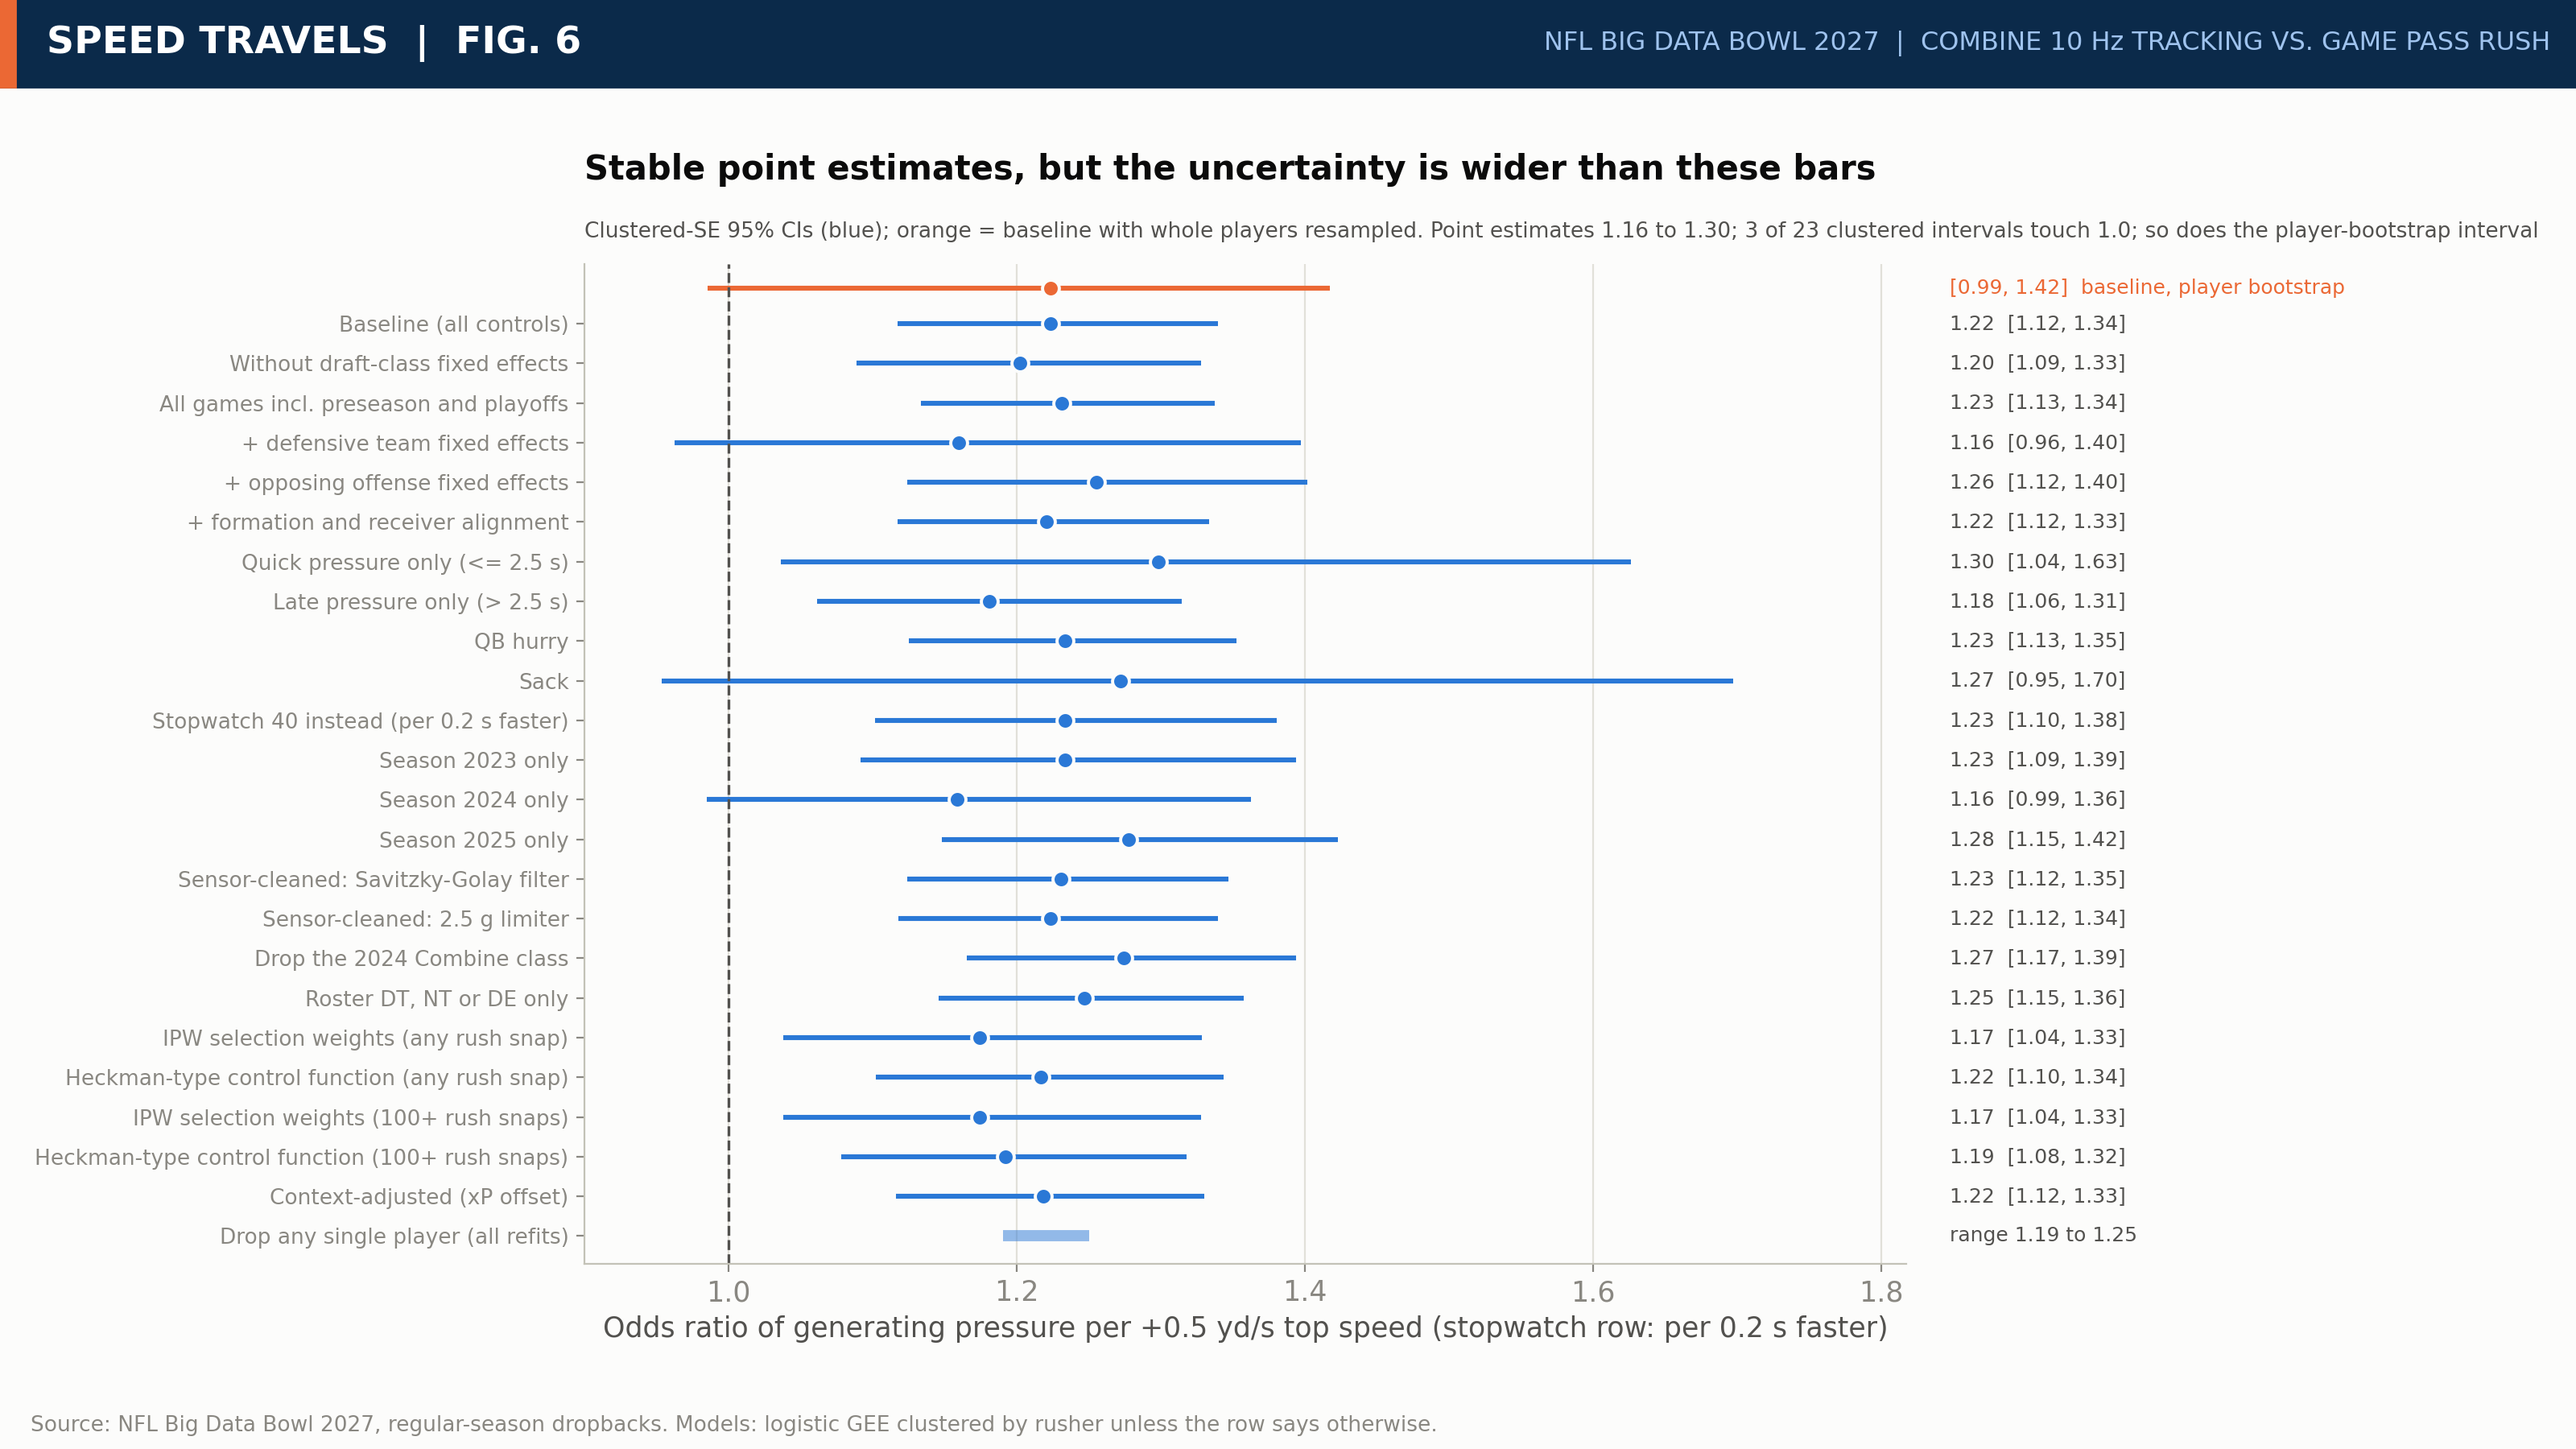
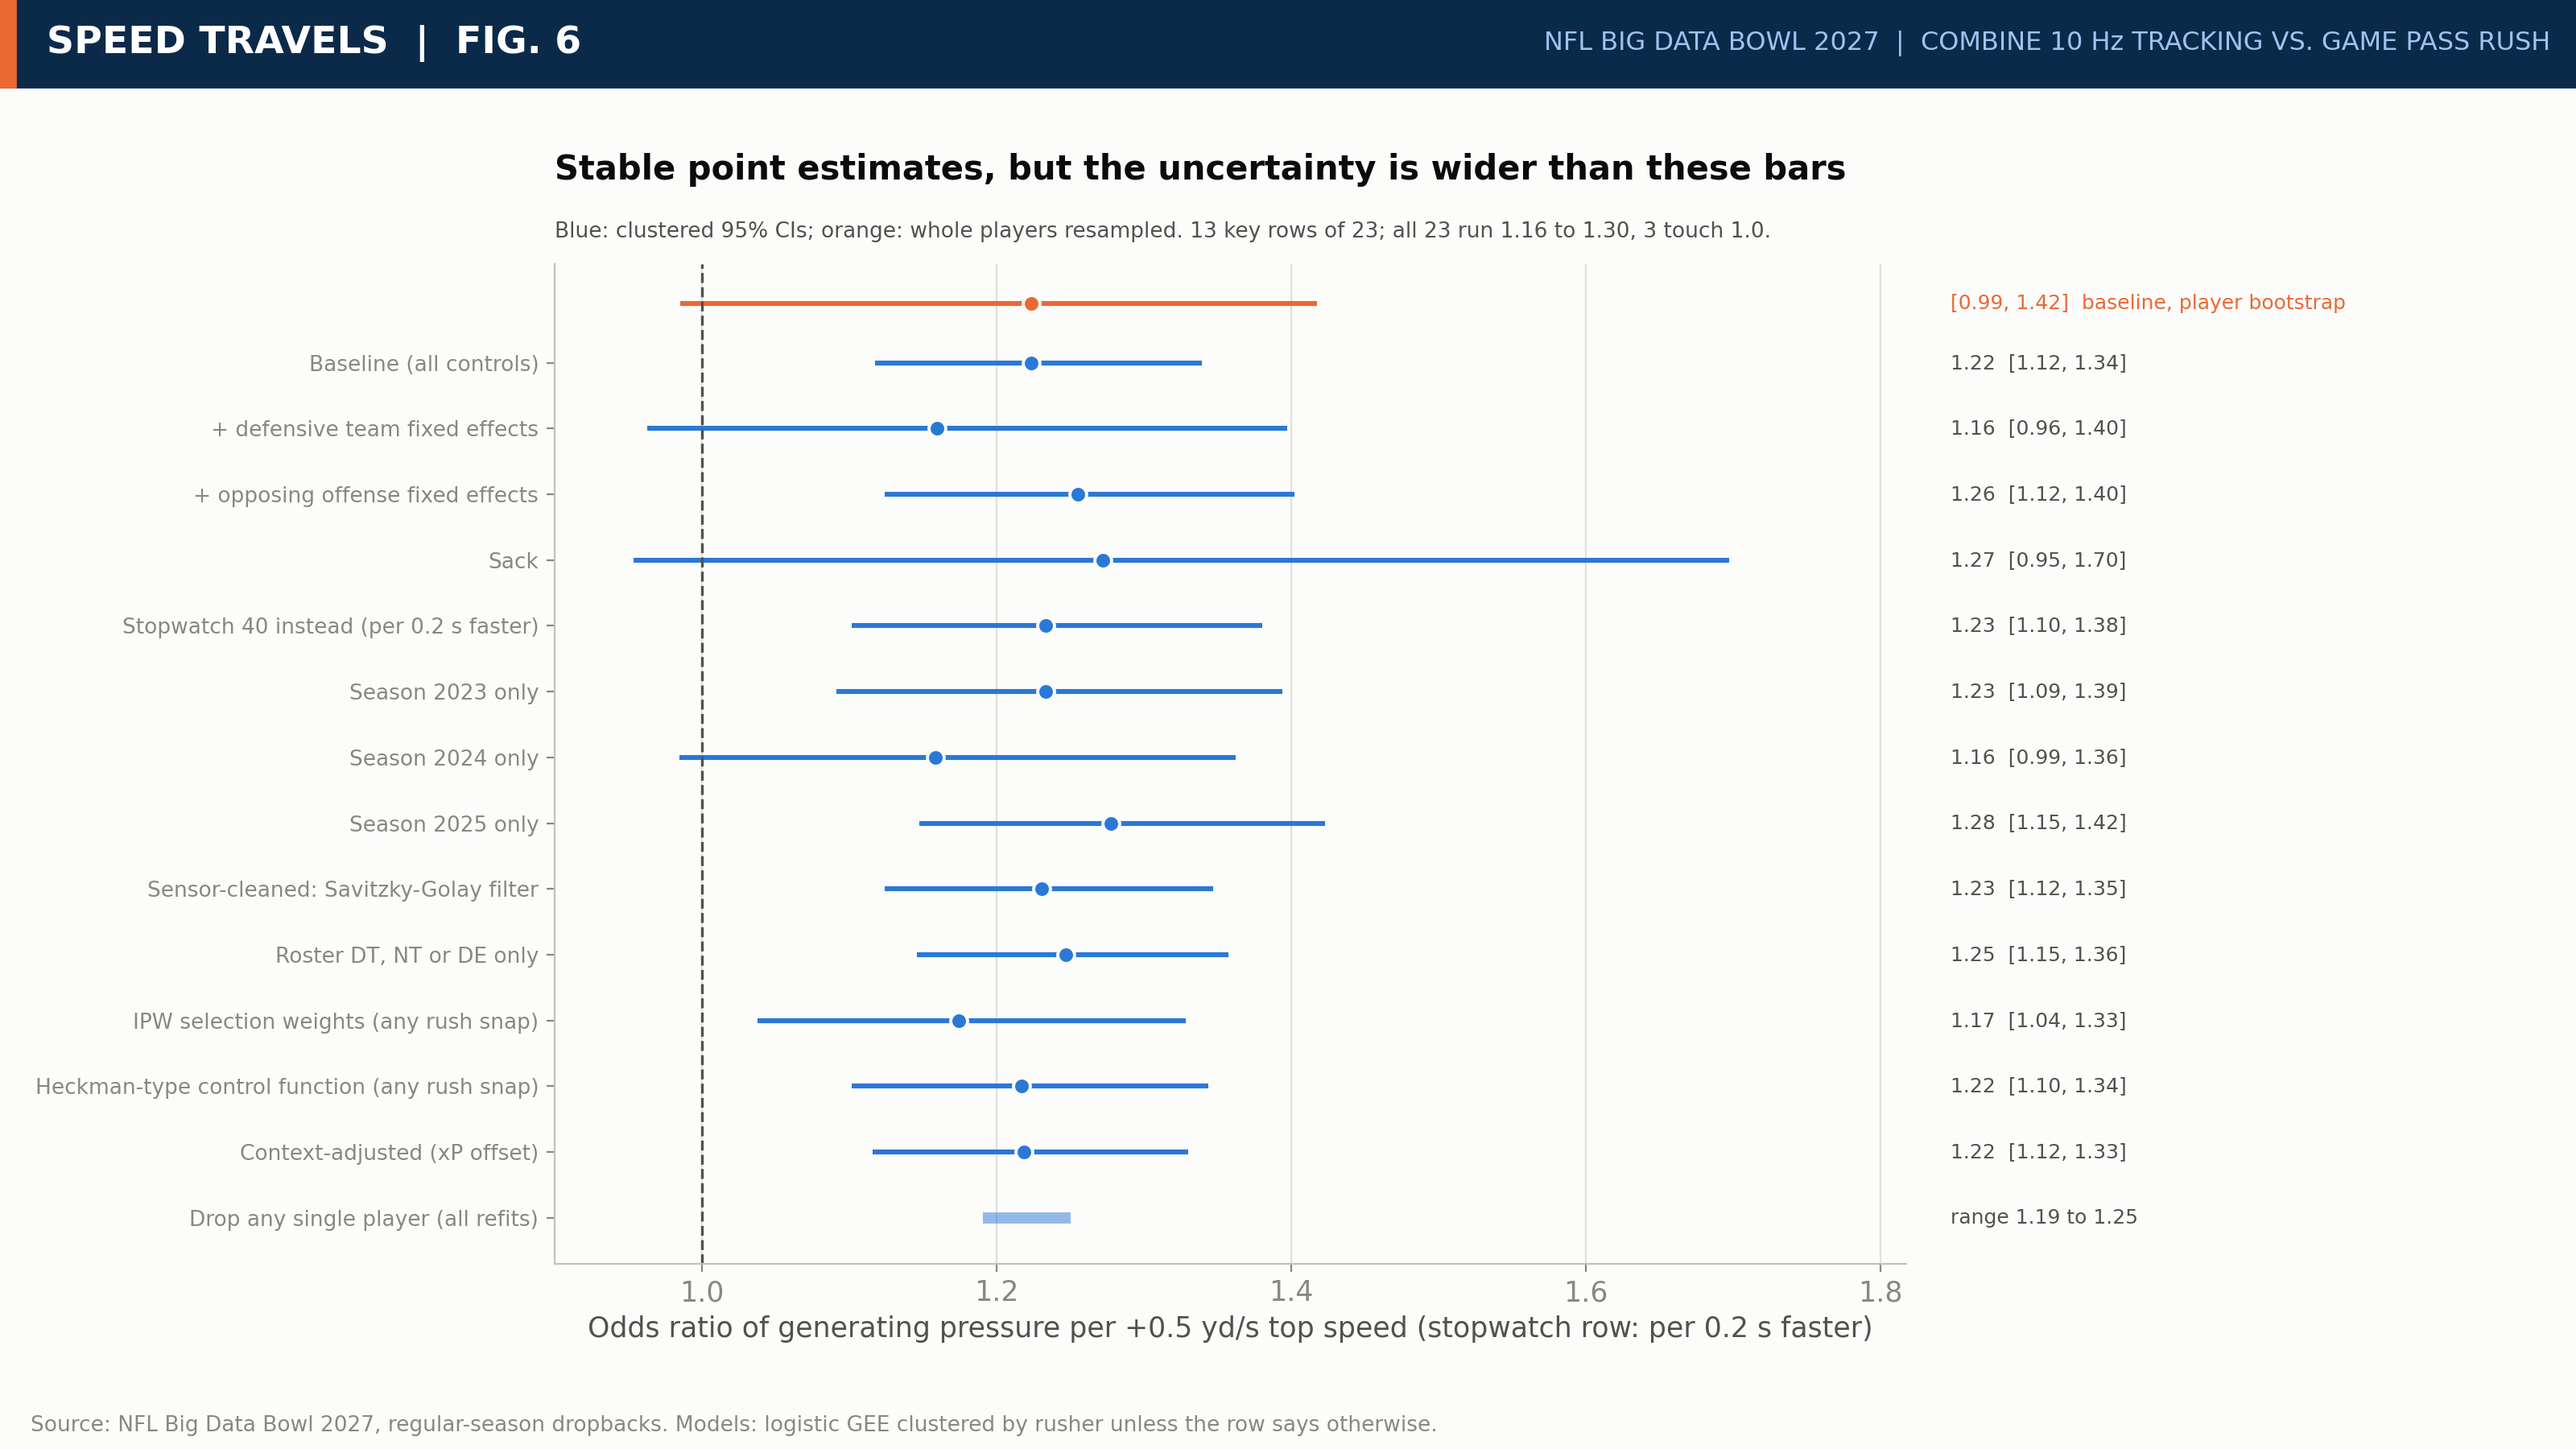
v30: Fig 6 cut to 13 key rows; Table 2 edge rows merged
Claude-Session: https://claude.ai/code/session_01NYNpUw5TLCT8fUrXZ4q2c3

diff --git a/notebook/speed_travels.py b/notebook/speed_travels.py
@@ -985,14 +985,16 @@ fig.text(0.012, 0.03, "Adjusted for weight, arm length, draft slot, draft class,
 # **Figure 6.** Stress tests.
 
 # %%
-rb = res["robust"]; rows_ = list(rb.items()); nloo = res["loo_OR_range"]; fig, ax = plt.subplots(figsize=(14, 8)); y = np.arange(len(rows_) + 1)[::-1]; XR = max(1.8, max(v["hi"] for v in rb.values()) + 0.12)
+KEY6 = ["Baseline (all controls)", "+ defensive team fixed effects", "+ opposing offense fixed effects", "Sack", "Stopwatch 40 instead (per 0.2 s faster)", "Season 2023 only", "Season 2024 only", "Season 2025 only",
+        "Sensor-cleaned: Savitzky-Golay filter", "Roster DT, NT or DE only", "IPW selection weights (any rush snap)", "Heckman-type control function (any rush snap)", "Context-adjusted (xP offset)"]
+rb_all = res["robust"]; rb = {k: rb_all[k] for k in KEY6 if k in rb_all}; rows_ = list(rb.items()); nloo = res["loo_OR_range"]; fig, ax = plt.subplots(figsize=(14, 6.5)); y = np.arange(len(rows_) + 1)[::-1]; XR = max(1.8, max(v["hi"] for v in rb.values()) + 0.12)
 for yy, (k, v) in zip(y[:-1], rows_):
     ax.hlines(yy, v["lo"], v["hi"], color=BLUE, lw=2.2); ax.plot(v["OR"], yy, "o", color=BLUE, ms=7.5, mec=SURF, mew=1.4); ax.text(XR + 0.03, yy, f"{v['OR']:.2f}  [{v['lo']:.2f}, {v['hi']:.2f}]", va="center", fontsize=9, color=INK2)
 ax.hlines(y[-1], nloo[0], nloo[1], color=BLUE, lw=5, alpha=0.5); ax.text(XR + 0.03, y[-1], f"range {nloo[0]:.2f} to {nloo[1]:.2f}", va="center", fontsize=9, color=INK2)
 pbx = res.get("pooled_boot")
 if pbx: ax.set_ylim(-0.7, y[0] + 1.5); ax.hlines(y[0] + 0.9, pbx["OR_lo"], pbx["OR_hi"], color=ORANGE, lw=2.2); ax.plot(rb[rows_[0][0]]["OR"], y[0] + 0.9, "o", color=ORANGE, ms=7.5, mec=SURF, mew=1.4); ax.text(XR + 0.03, y[0] + 0.9, f"[{pbx['OR_lo']:.2f}, {pbx['OR_hi']:.2f}]  baseline, player bootstrap", va="center", fontsize=9, color=ORANGE)
 ax.set_yticks(y); ax.set_yticklabels([k for k, _ in rows_] + ["Drop any single player (all refits)"], fontsize=9.5); ax.axvline(1, color=INK2, lw=1.2, ls="--"); ax.set_xlim(0.9, XR); ax.set_xlabel("Odds ratio of generating pressure per +0.5 yd/s top speed (stopwatch row: per 0.2 s faster)"); ax.grid(axis="y", visible=False)
-headline(ax, "Stable point estimates, but the uncertainty is wider than these bars", f"Clustered-SE 95% CIs (blue); orange = baseline with whole players resampled. Point estimates {min(v['OR'] for v in rb.values()):.2f} to {max(v['OR'] for v in rb.values()):.2f}; {sum(v['lo'] <= 1 for v in rb.values())} of {len(rb)} clustered intervals touch 1.0" + ("; so does the player-bootstrap interval" if (res.get("pooled_boot") or {}).get("OR_lo", 2) <= 1 else "")); fig.tight_layout(); save(fig, "fig6_robust.png", right=0.74)
+headline(ax, "Stable point estimates, but the uncertainty is wider than these bars", f"Blue: clustered 95% CIs; orange: whole players resampled. {len(rb)} key rows of {len(rb_all)}; all {len(rb_all)} run {min(v['OR'] for v in rb_all.values()):.2f} to {max(v['OR'] for v in rb_all.values()):.2f}, {sum(v['lo'] <= 1 for v in rb_all.values())} touch 1.0.") ; fig.tight_layout(); save(fig, "fig6_robust.png", right=0.74)
 
 # %% [markdown]
 # **Figure 7.** The interior pressure effect class by class.

diff --git a/writeup/writeup.md b/writeup/writeup.md
@@ -66,7 +66,7 @@ Each +0.5 yd/s raises the odds of pressure by 22% (odds ratio, OR, 1.22; cluster
 Correcting for who reached the field, for game context and for sensor noise leaves the estimate between 1.17 and 1.23 (Appendix A1 to A3).
 
 ![Fig. 6: Robustness checks with clustered and player-bootstrap intervals](https://raw.githubusercontent.com/tdogukan470-jpg/nfl-bdb-2027/main/figures/fig6_robust.png)
-*Figure 6. The interior pressure effect under the baseline plus 22 alternative specifications: fixed effects, outcome definitions, seasons, sensor cleaning, selection correction and the context model, with clustered-SE intervals; the orange bar resamples whole players. 1.0 is no effect.*
+*Figure 6. The interior pressure effect under the baseline and key alternatives (all 22 in the notebook): fixed effects, outcome definitions, seasons, sensor cleaning, selection correction and the context model, with clustered-SE intervals; the orange bar resamples whole players. 1.0 is no effect.*
 
 **Top speed, not burst.** Top speed carries the effect (OR 1.21) and burst carries none (OR 1.03, p = 0.54); the stopwatch 10-yard split adds nothing once the 40 is in (p = 0.35).
 
@@ -88,9 +88,7 @@ A scout needs the finding to hold for the next draft, so we hide one whole draft
 | Interior, split > 2.20 s (23 players) | POE -0.9 [-1.9, +0.1] | Lower pass-rush priority; let tape decide |
 | Interior up to 294 lb (the lightest band includes linebackers and DBs aligned inside) | Fast-minus-slow POE +2.3 [-4.3, +11.9] (<= 263 lb) and +3.1 [+0.6, +5.3] (264 to 294 lb) | Weigh the split here; the 264 to 294 lb gap excludes 0 |
 | Interior 297+ lb (nose types) | Fast-minus-slow +0.5 [-2.4, +2.4] | No gap; use other traits |
-| Fast edge, efficient drill path (16 players) | POE +1.5 [-1.8, +3.3] | No clear gain from speed; judge on tape |
-| Fast edge, inefficient drill path (18 players) | POE -0.8 [-3.8, +0.5]; wide -1.2, tight -1.7 (exploratory) | Wide and tight alignment differ little |
-| Slow edge, efficient / inefficient path (18 / 15 players) | POE -2.2 [-4.4, -0.4] and -3.0 [-6.2, +0.2] | Below the fast cells; edge speed may help a little (OR CI includes 1) |
+| Edge, any speed x drill-path profile (16/18/18/15 players) | Fast: POE +1.5 [-1.8, +3.3] and -0.8 [-3.8, +0.5]; slow: -2.2 [-4.4, -0.4] and -3.0 [-6.2, +0.2] | Leans toward fast, but cells are small; judge on tape |
 | OL, WR/TE | No detectable speed effect | Do not pay for speed alone |
 
 Edge cells use the drill's path efficiency, which does not predict pressure on its own (main effect p = 0.44; speed x path interaction p = 0.54), so judge path directness on tape. Weight bands proxy 3-tech versus nose. The split cut-off was chosen from 7 scanned values (2.01 to 2.27 s); only 2.12 s gives a fast-minus-slow gap whose interval excludes 0, so the interior rows are exploratory.

diff --git a/writeup/writeup_template.md b/writeup/writeup_template.md
@@ -66,7 +66,7 @@ Each +0.5 yd/s raises the odds of pressure by {ORPCT:table1.int_pressure}% (odds
 Correcting for who reached the field, for game context and for sensor noise leaves the estimate between {CORR_RANGE} (Appendix A1 to A3).
 
 ![Fig. 6: Robustness checks with clustered and player-bootstrap intervals]({IMG}fig6_robust.png)
-*Figure 6. The interior pressure effect under the baseline plus {N_RB} alternative specifications: fixed effects, outcome definitions, seasons, sensor cleaning, selection correction and the context model, with clustered-SE intervals; the orange bar resamples whole players. 1.0 is no effect.*
+*Figure 6. The interior pressure effect under the baseline and key alternatives (all {N_RB} in the notebook): fixed effects, outcome definitions, seasons, sensor cleaning, selection correction and the context model, with clustered-SE intervals; the orange bar resamples whole players. 1.0 is no effect.*
 
 **Top speed, not burst.** Top speed carries the effect (OR {OR:decomp.top}) and burst carries none (OR {OR:decomp.burst}, p = {P2:decomp.burst.p}); the stopwatch 10-yard split adds nothing once the 40 is in (p = {P2:decomp_stopwatch.ten.p}).
 
@@ -88,9 +88,7 @@ A scout needs the finding to hold for the next draft, so we hide one whole draft
 | Interior, split > {CUT_R} s ({N_R} players) | POE {POE_R} | Lower pass-rush priority; let tape decide |
 | Interior up to {W2} lb (the lightest band includes linebackers and DBs aligned inside) | Fast-minus-slow POE {GAP_LIGHT_CI} (<= {W1} lb) and {GAP_MID_CI} ({W1P} to {W2} lb) | {LIGHT_ACTION} |
 | Interior {W2P}+ lb (nose types) | Fast-minus-slow {GAP_HEAVY} | No gap; use other traits |
-| Fast edge, efficient drill path ({N_FE} players) | POE {POE_FE} | No clear gain from speed; judge on tape |
-| Fast edge, inefficient drill path ({N_FI} players) | POE {POE_FI}; wide {POE_FI_W}, tight {POE_FI_T} (exploratory) | Wide and tight alignment differ little |
-| Slow edge, efficient / inefficient path ({N_SE} / {N_SI} players) | POE {POE_SE} and {POE_SI} | Below the fast cells; edge speed may help a little (OR CI includes 1) |
+| Edge, any speed x drill-path profile ({N_FE}/{N_FI}/{N_SE}/{N_SI} players) | Fast: POE {POE_FE} and {POE_FI}; slow: {POE_SE} and {POE_SI} | Leans toward fast, but cells are small; judge on tape |
 | OL, WR/TE | No detectable speed effect | Do not pay for speed alone |
 
 Edge cells use the drill's path efficiency, which does not predict pressure on its own (main effect p = {P2:matrix.edge_main_pez.p}; speed x path interaction p = {P2:matrix.edge_interaction.p}), so judge path directness on tape. Weight bands proxy 3-tech versus nose. {CUTSCAN}
